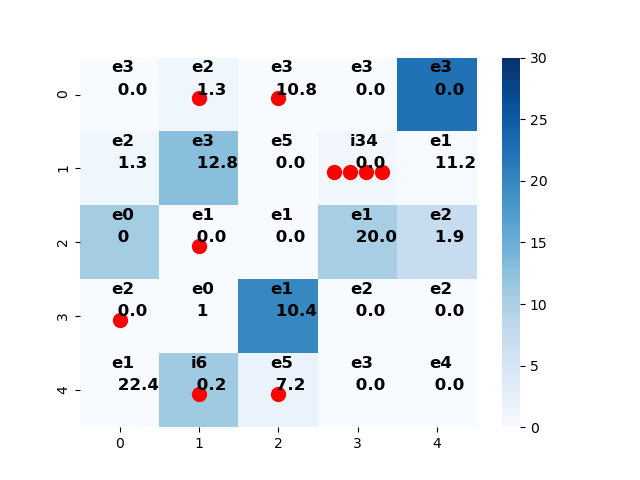
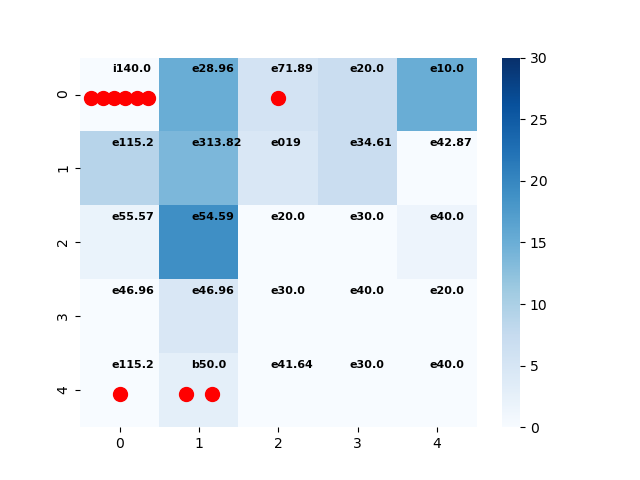
take out payoff values from graph

Changed region(s): [[0.125, 0.0938, 0.75, 0.9062], [0.6562, 0.75, 0.75, 0.8125], [0.5312, 0.75, 0.625, 0.8125]]

diff --git a/classBoard.py b/classBoard.py
@@ -47,9 +47,7 @@ class Board():
                 #annotating cells (phase, numHits)
                 #(ex: B5 means breakthrough phase, hit 5 times)
                 hm.annotate(f"{cell.phase.name[0]}{cell.numHits}", xy = (j, i), xytext=(j+0.40, i+0.2),
-                    fontsize=12, fontweight='bold')
-                hm.annotate(f" {round((cell.payoff), 1)}", xy = (j, i), xytext=(j+0.40, i+0.5),
-                    fontsize=12, fontweight='bold')
+                    fontsize=8, fontweight='bold')
         
         plt.savefig(f'testplot{numRun}.png')
         plt.clf()
